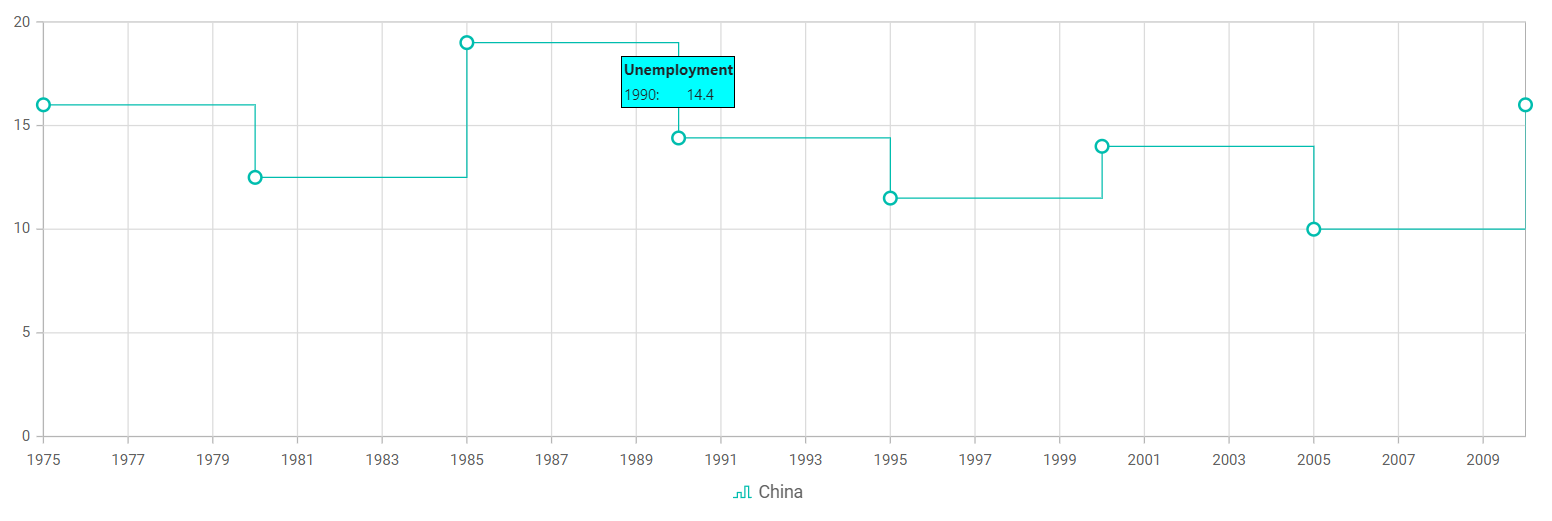
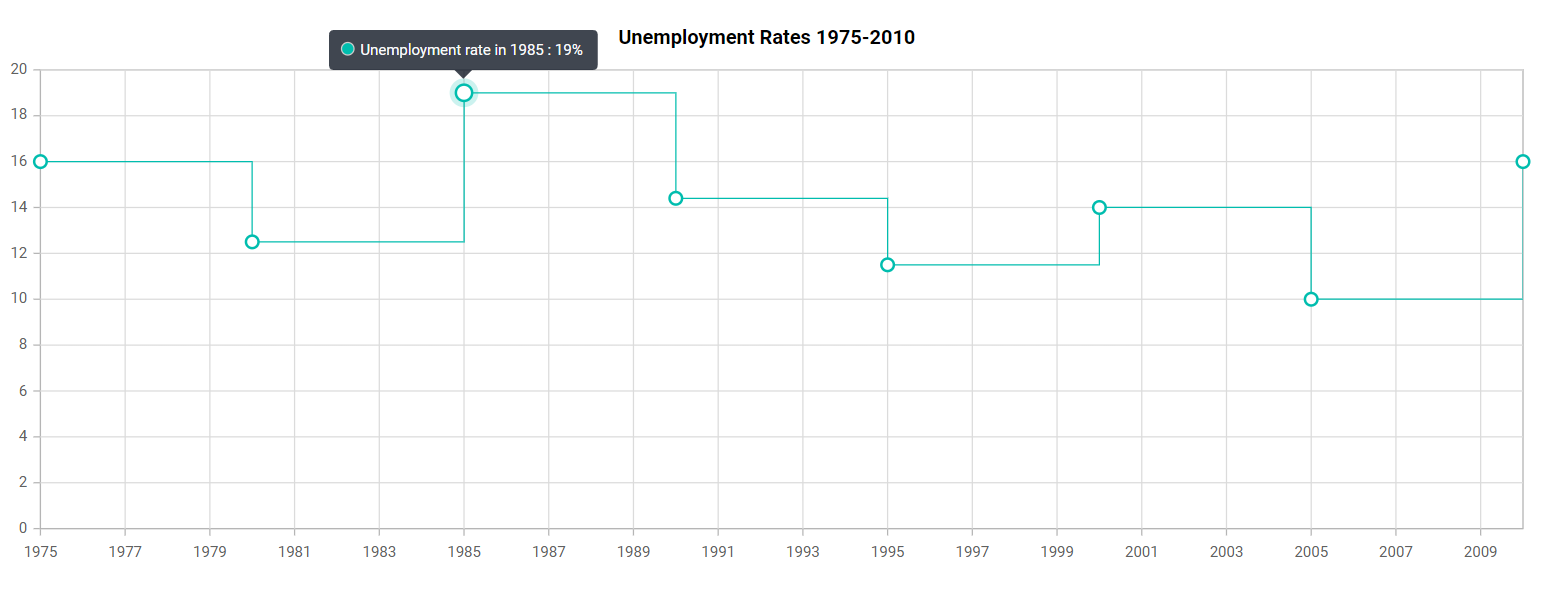
KB - review Changes made

diff --git a/README.md b/README.md
@@ -1,15 +1,14 @@
 # how-to-display-more-data-on-tooltip-of-Blazor-chart
 
-This article explains how to display more data on tooltip of a blazor chart.
+This article explains how to display more data on tooltip of a Blazor Chart Component.
 
-**Display more information on tooltip using Template property**
+**Display more information on tooltip in Blazor chart**
 
-The [Blazor Chart](https://www.syncfusion.com/blazor-components/blazor-charts) provides the support to display the needed information from its model of populated items source along with the Tooltip UI customization with the help of [Template](https://help.syncfusion.com/cr/blazor/Syncfusion.Blazor.Charts.ChartTooltipSettings.html#Syncfusion_Blazor_Charts_ChartTooltipSettings_Template) property of [ChartTooltipSettings](https://help.syncfusion.com/cr/blazor/Syncfusion.Blazor.Charts.ChartTooltipSettings.html).
+In [Blazor Chart](https://www.syncfusion.com/blazor-components/blazor-charts), You can customize the tooltip  to display specific information by using the [TooltipMappingName](https://help.syncfusion.com/cr/blazor/Syncfusion.Blazor.Charts.ChartSeries.html#Syncfusion_Blazor_Charts_ChartSeries_TooltipMappingName) property in the series. By default, the tooltip shows information about the x and y values in data points.
 
-Any HTML elements can be displayed within the tooltip by using the Template property of the [ChartTooltipSettings](https://help.syncfusion.com/cr/blazor/Syncfusion.Blazor.Charts.ChartTooltipSettings.html) . You can use the data.X and data.Y as place holders in the HTML element to display x and y values of the corresponding data point.
+In the following code example illustrates this. 
 
-The following code example illustrates this.
-**C#**
+**Index.razor**
 
 ```cshtml
 
@@ -18,54 +17,45 @@ The following code example illustrates this.
 <SfChart Title="Unemployment Rates 1975-2010">
 
     <ChartSeriesCollection>
-        <ChartSeries DataSource="StepChartValues" Type="ChartSeriesType.StepLine" XName="Year" YName="YValue" Name="China">
+        <ChartSeries DataSource="StepChartValues" Type="ChartSeriesType.StepLine" XName="Year" YName="YValue" TooltipMappingName="Text">
             <ChartMarker Visible="true" Width="10" Height="10">
             </ChartMarker>
         </ChartSeries>
     </ChartSeriesCollection>
 
-    <ChartTooltipSettings Enable="true">
-        <Template>
-            @{
-                var data = context as ChartTooltipInfo;
-                <div>
-                    <table style="width:100%;  border: 1px solid black;">
-                        <tr><th colspan="2" bgcolor="#00FFFF">Unemployment</th></tr>
-                        <tr><td bgcolor="#00FFFF">@data.X:</td><td bgcolor="#00FFFF">@data.Y</td></tr>
-                    </table>
-                </div>
-            }
-        </Template>
+    <ChartTooltipSettings Enable="true" Format="${point.tooltip}">        
     </ChartTooltipSettings>
 
 </SfChart>
 
 @code {
-    
+
     public List<StepChartData> StepChartValues = new List<StepChartData>
     {
-        new StepChartData { Year = "1975", YValue = 16 },
-        new StepChartData { Year = "1980", YValue = 12.5 },
-        new StepChartData { Year = "1985", YValue = 19 },
-        new StepChartData { Year = "1990", YValue = 14.4 },
-        new StepChartData { Year = "1995", YValue = 11.5 },
-        new StepChartData { Year = "2000", YValue = 14 },
-        new StepChartData { Year = "2005", YValue = 10 },
-        new StepChartData { Year = "2010", YValue = 16 }
+        new StepChartData { Year = "1975", YValue = 16, Text = "Unemployment rate in 1975 : 16%" },
+        new StepChartData { Year = "1980", YValue = 12.5, Text = "Unemployment rate in 1980 : 12.5%" },
+        new StepChartData { Year = "1985", YValue = 19, Text = "Unemployment rate in 1985 : 19%" },
+        new StepChartData { Year = "1990", YValue = 14.4, Text = "Unemployment rate in 1990 : 14.4%" },
+        new StepChartData { Year = "1995", YValue = 11.5, Text = "Unemployment rate in 1995 : 11.5%" },
+        new StepChartData { Year = "2000", YValue = 14, Text = "Unemployment rate in 2000 : 14%" },
+        new StepChartData { Year = "2005", YValue = 10, Text = "Unemployment rate in 2005 : 10%" },
+        new StepChartData { Year = "2010", YValue = 16 , Text = "Unemployment rate in 2010 : 16%"}
     };
 
     public class StepChartData
     {
         public string Year { get; set; }
         public double YValue { get; set; }
+        public string Text{ get; set; }
     }
 }
 
 ```
 
-The following screenshot illustrate the output of the above code snippet.
+The following screenshot illustrates the output of the above code snippet.
 
 **Output:**
+
 ![](/tooltip-template.png)
 
 **Conclusion**
@@ -77,4 +67,3 @@ You can refer to our [Blazor Chart feature tour](https://www.syncfusion.com/blaz
 For current customers, you can check out our components from the [License and Downloads](https://www.syncfusion.com/sales/teamlicense) page. If you are new to Syncfusion, you can try our 30-day [free trial](https://www.syncfusion.com/downloads/blazor) to check out our other controls.
 
 If you have any queries or require clarifications, please let us know in the comments section below. You can also contact us through our [support forums](https://www.syncfusion.com/forums), [support portal](https://support.syncfusion.com/create), or [feedback portal](https://www.syncfusion.com/feedback/blazor-components?control=charts). We are always happy to assist you!
-
